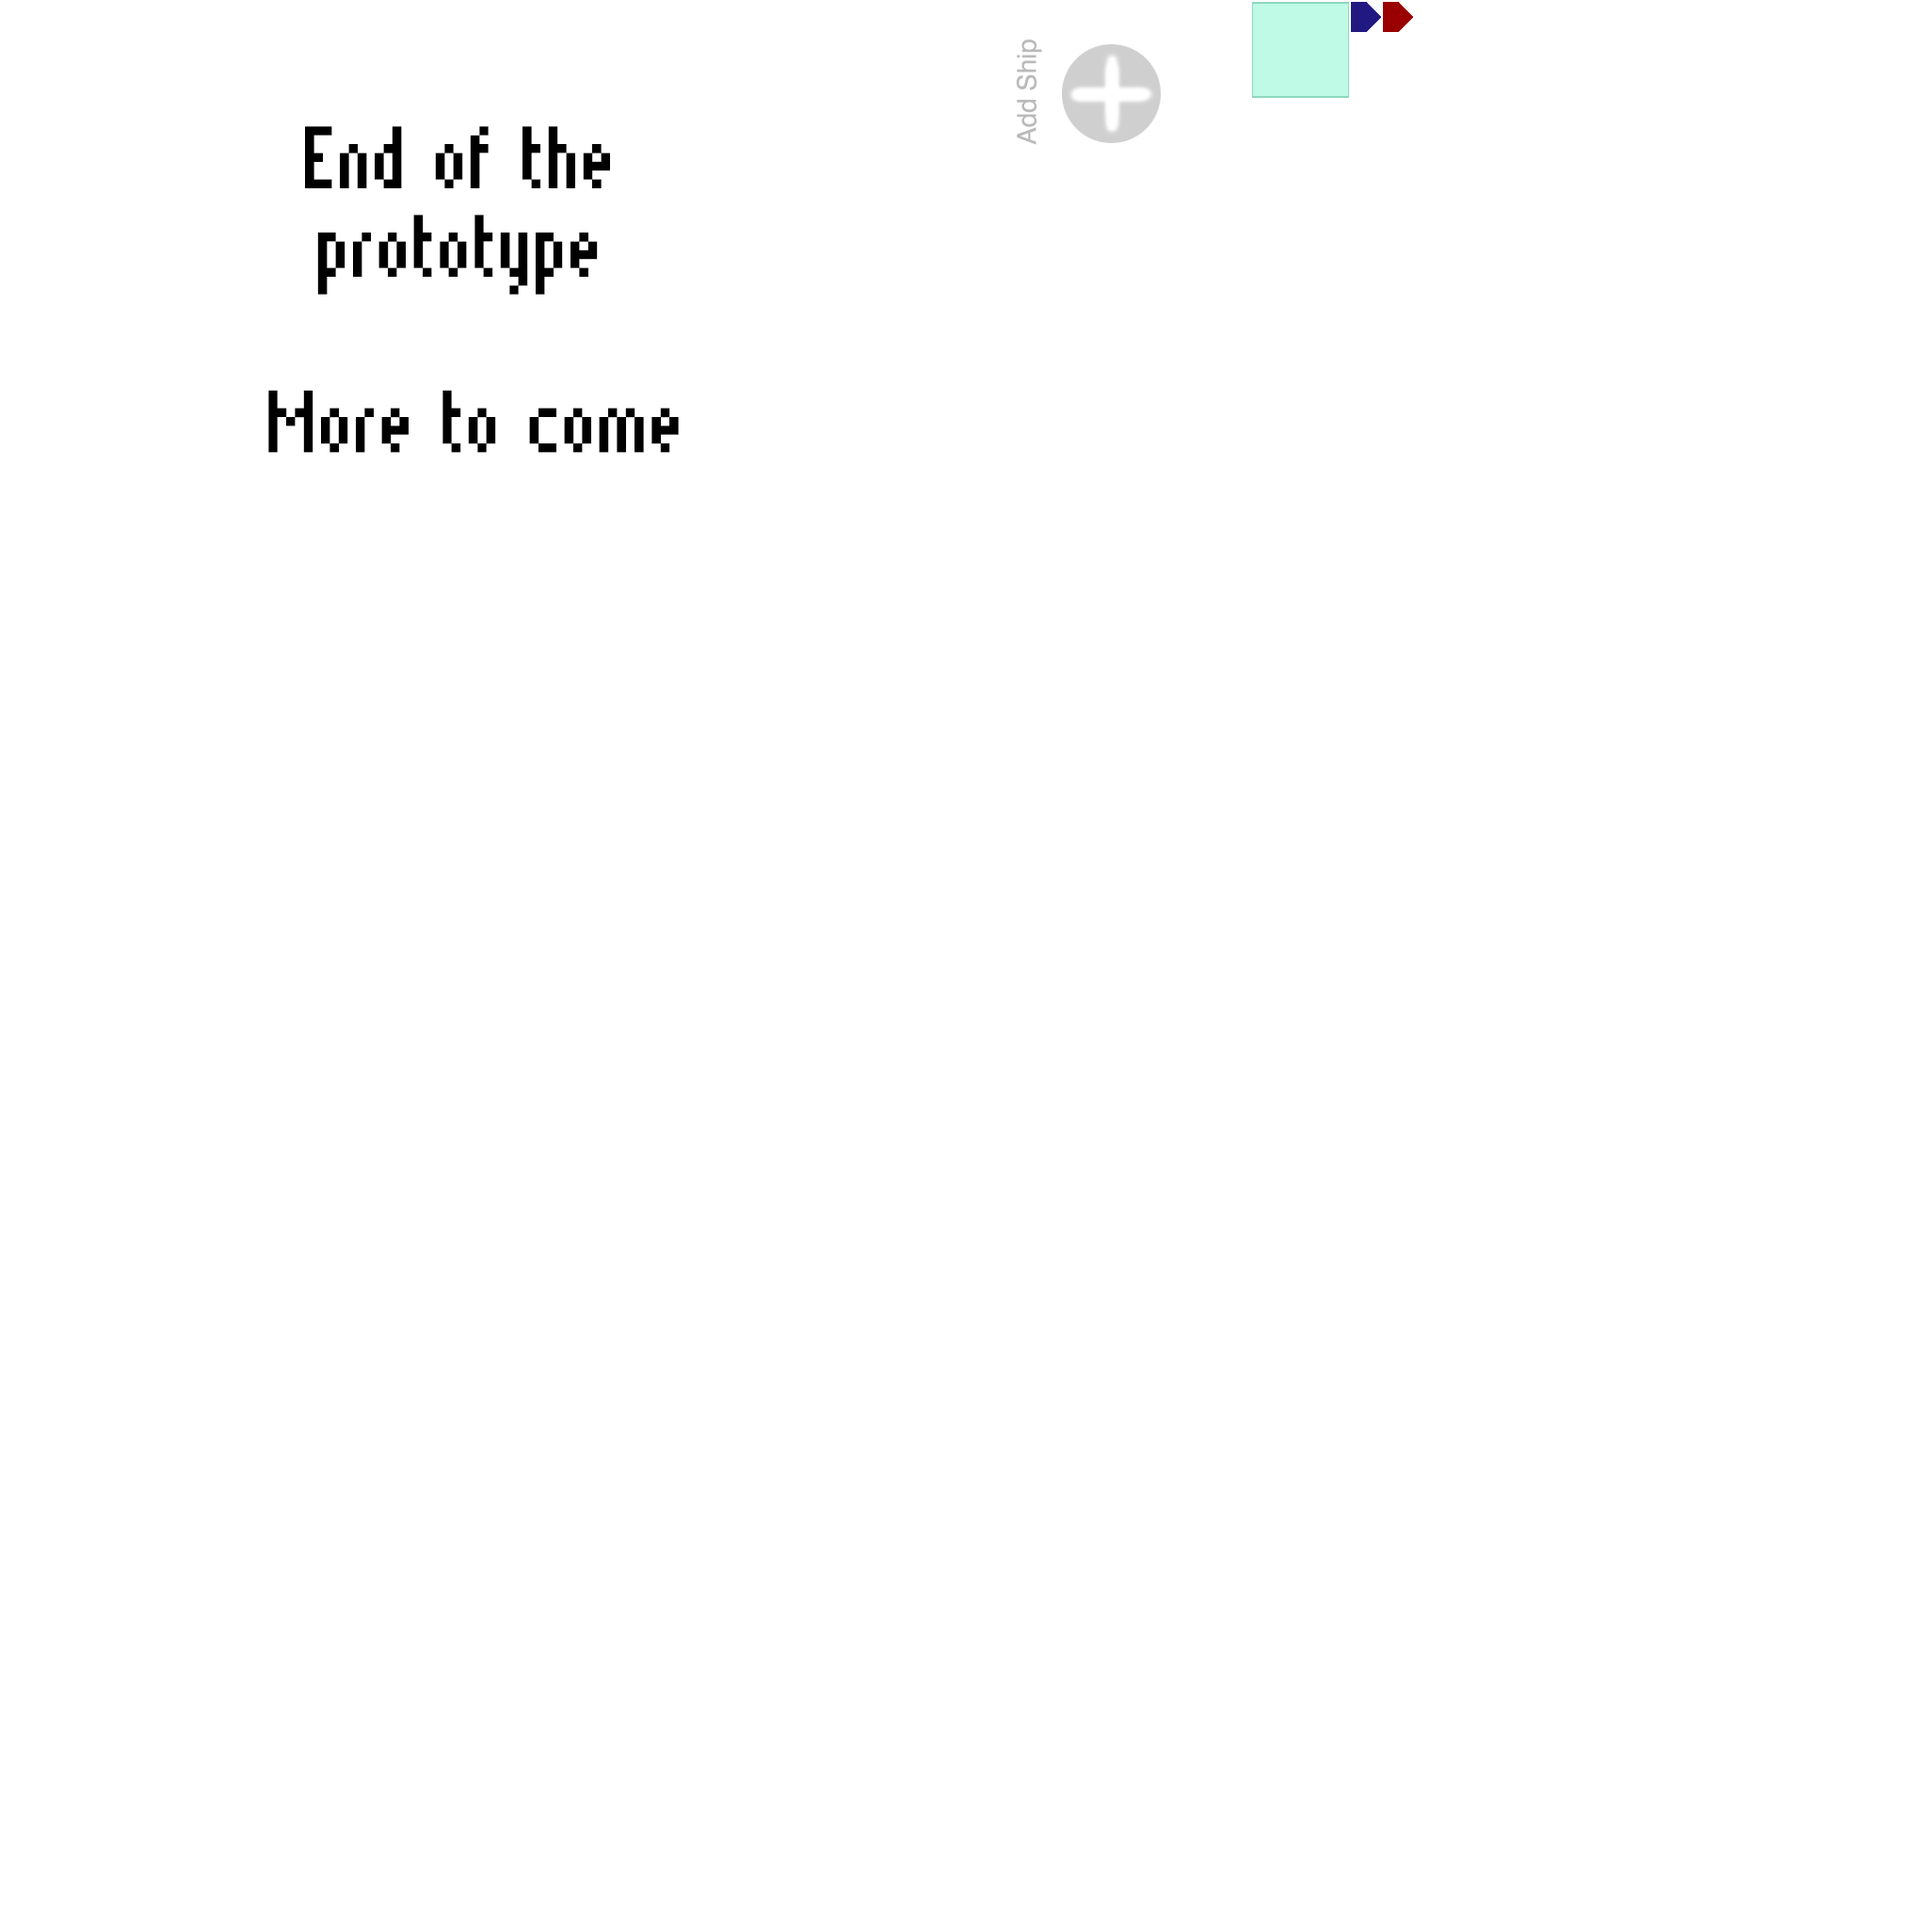
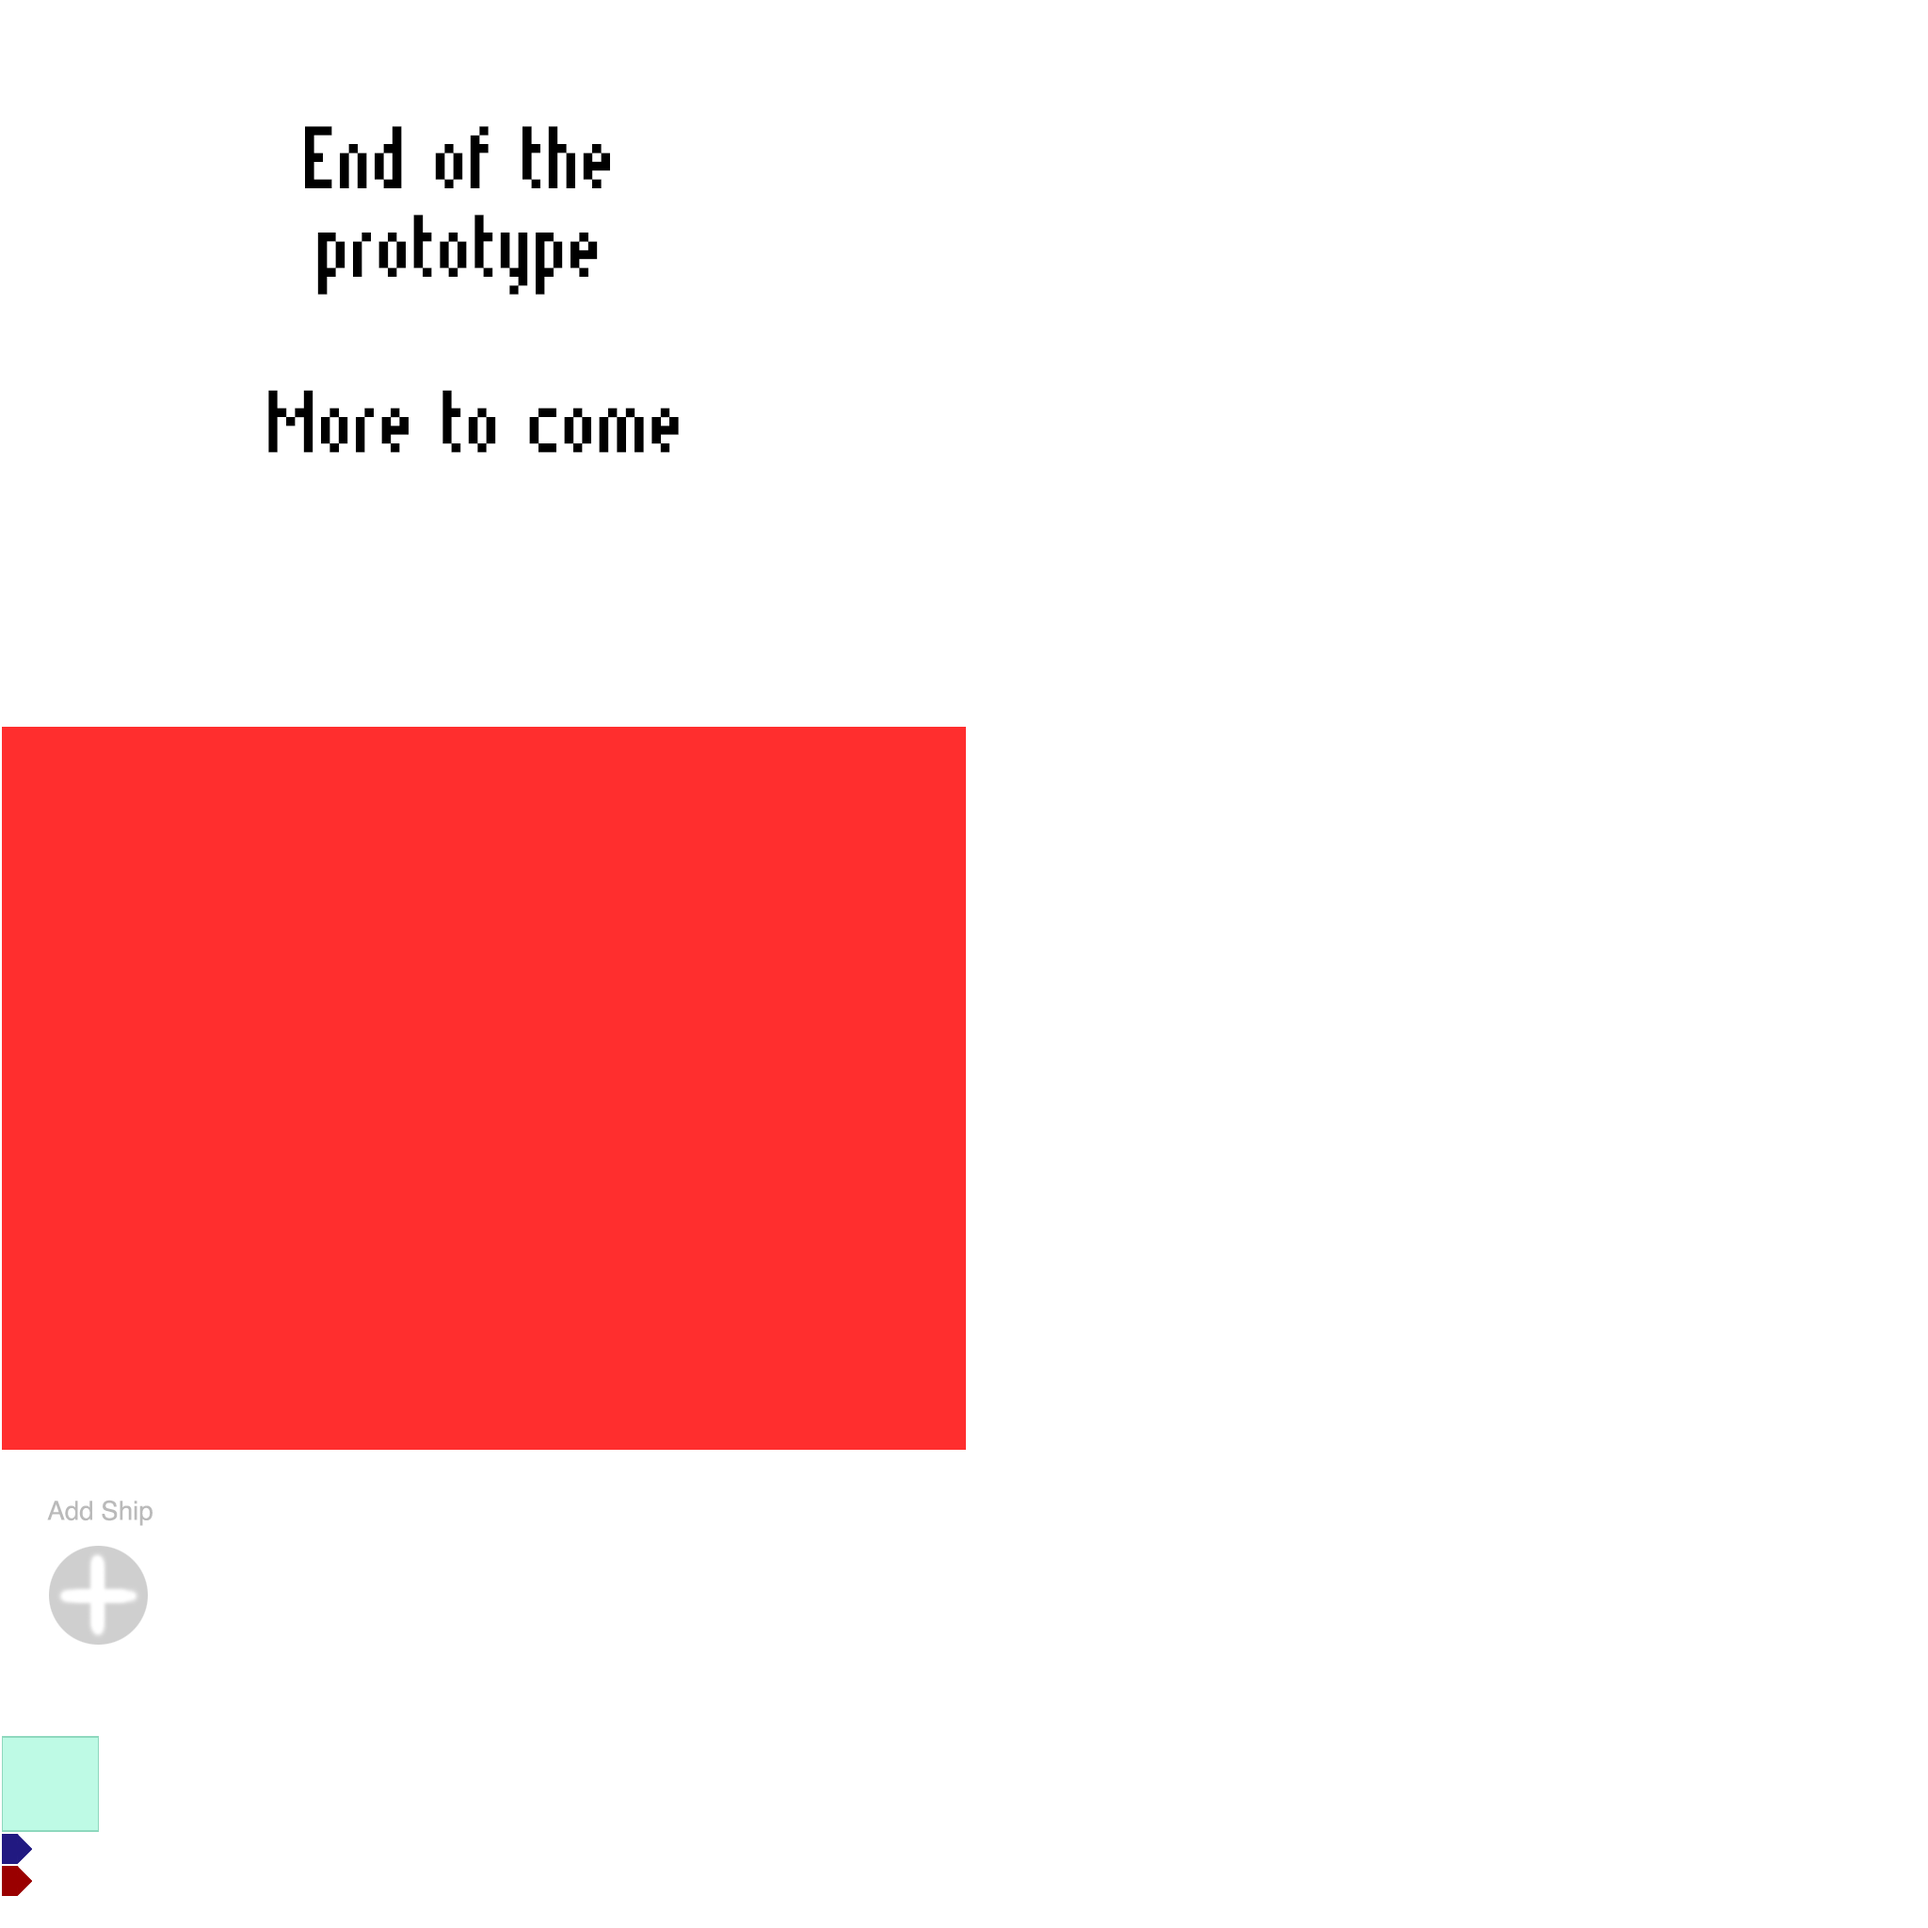
alarm visual

Changed region(s): [[0.0, 0.375, 0.5, 0.75], [0.0, 0.7812, 0.0938, 1.0], [0.5312, 0.0, 0.75, 0.0938]]

diff --git a/core/src/com/agmcleod/sp/Alarm.java b/core/src/com/agmcleod/sp/Alarm.java
@@ -1,0 +1,52 @@
+package com.agmcleod.sp;
+
+import com.badlogic.gdx.Gdx;
+import com.badlogic.gdx.graphics.Camera;
+import com.badlogic.gdx.graphics.g2d.SpriteBatch;
+import com.badlogic.gdx.graphics.g2d.TextureRegion;
+import com.badlogic.gdx.math.Rectangle;
+import com.badlogic.gdx.physics.box2d.World;
+
+/**
+ * Created by aaronmcleod on 15-07-22.
+ */
+public class Alarm extends GameObject {
+    private float alpha;
+    private Rectangle bounds;
+    private GameScreen gs;
+    private float increment;
+    private TextureRegion textureRegion;
+
+    public Alarm(GameScreen gs) {
+        super("alarm");
+        this.gs = gs;
+        bounds = new Rectangle(0, 0, Gdx.graphics.getWidth(), Gdx.graphics.getHeight());
+        textureRegion = gs.getGame().getAtlas().findRegion("alarm");
+        alpha = 1.0f;
+        increment = -4f;
+    }
+
+    @Override
+    public void dispose(World world) {
+
+    }
+
+    @Override
+    public void render(SpriteBatch batch) {
+        Camera camera = gs.getCamera();
+        float xOffset = camera.position.x - camera.viewportWidth / 2;
+        float yOffset = camera.position.y - camera.viewportHeight / 2;
+        float x = xOffset + bounds.x;
+        float y = yOffset + bounds.y;
+        batch.setColor(1, 1, 1, alpha);
+        batch.draw(textureRegion, x, y);
+        batch.setColor(1, 1, 1, 1.0f);
+    }
+
+    public void update() {
+        alpha += increment * Gdx.graphics.getDeltaTime();
+        if (alpha < 0 || alpha > 1.0) {
+            increment *= 1;
+        }
+    }
+}

diff --git a/core/src/com/agmcleod/sp/GameScreen.java b/core/src/com/agmcleod/sp/GameScreen.java
@@ -286,6 +286,10 @@ public class GameScreen implements InputProcessor, Screen {
         transitioning = true;
     }
 
+    public void ringAlarm() {
+        gameObjects.add(new Alarm(this));
+    }
+
     @Override
     public void show() {
         debugRenderer = new Box2DDebugRenderer();

diff --git a/core/src/com/agmcleod/sp/CrackTool.java b/core/src/com/agmcleod/sp/CrackTool.java
@@ -130,6 +130,7 @@ public class CrackTool {
             else {
                 target.allowPlayerToMove();
                 hideAndEndCrackSession();
+                gs.ringAlarm();
             }
         }
     }
